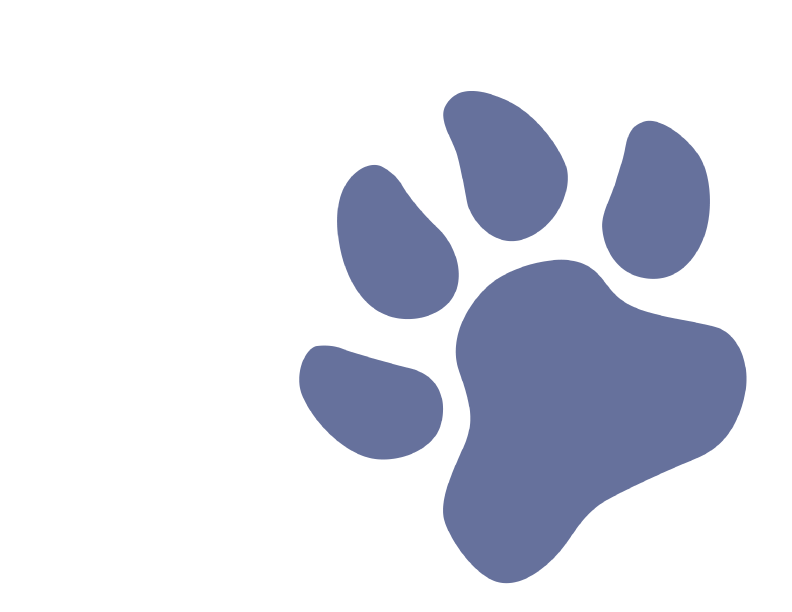
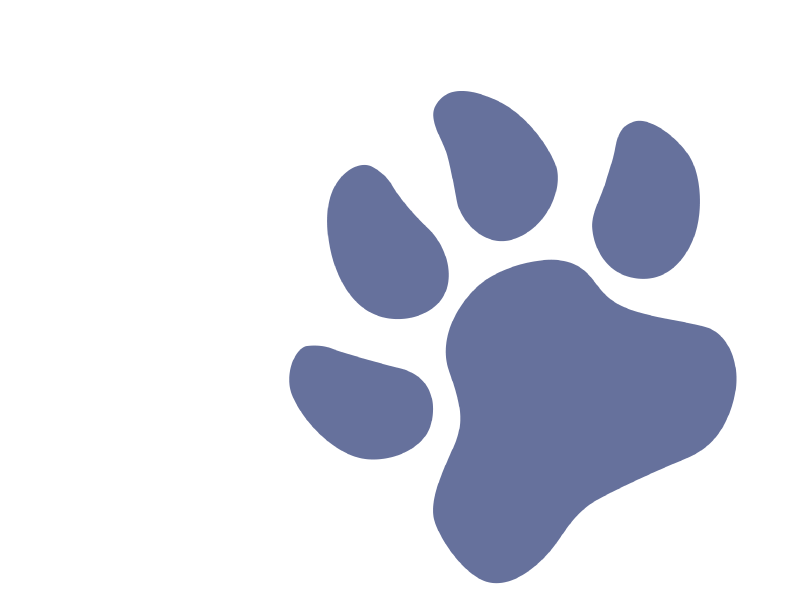
student profile background

diff --git a/public/css/style.css b/public/css/style.css
@@ -6347,6 +6347,7 @@ form .checkbox-group > .valid-feedback {
 .navbar-toggler .icon-bar {
   position: relative;
   background-color: #fff;
+  box-shadow: 1px 3px 5px 1px rgba(0, 0, 0, 0.1);
   width: 32px;
   height: 3px;
   opacity: 1;
@@ -6389,7 +6390,24 @@ form .checkbox-group > .valid-feedback {
 }
 
 body.user-c.login-a {
-  background-image: linear-gradient(#fff, #d0d0da, #13284c);
+  background-image: url(../images/fslibrary.jpg);
+  background-size: 37%;
+  background-position: bottom right;
+  background-repeat: no-repeat;
+}
+
+.red-paw-background {
+  background-image: url(../images/red-paw-print-background.png);
+  background-size: 37%;
+  background-position: bottom right;
+  background-repeat: no-repeat;
+}
+
+.blue-paw-background {
+  background-image: url(../images/blue-paw-print-background.png);
+  background-size: 37%;
+  background-position: bottom right;
+  background-repeat: no-repeat;
 }
 
 i.fa-star.fas {
@@ -6487,7 +6505,6 @@ body.student-c.profile-a {
   margin-top: 20px;
   color: #1a202c;
   text-align: left;
-  background-color: #e2e8f0;
 }
 
 .main-body {
@@ -6495,7 +6512,7 @@ body.student-c.profile-a {
 }
 
 .card {
-  box-shadow: 0 1px 3px 0 rgba(0, 0, 0, 0.1), 0 1px 2px 0 rgba(0, 0, 0, 0.06);
+  box-shadow: 1px 3px 5px 1px rgba(0, 0, 0, 0.1), 0 3px 4px 0 rgba(0, 0, 0, 0.06);
 }
 
 .card {

diff --git a/public/css/partials/_page.scss b/public/css/partials/_page.scss
@@ -1,5 +1,22 @@
 body.user-c.login-a {
-	background-image: linear-gradient(#fff,#d0d0da,#13284c);
+	background-image: url(../images/fslibrary.jpg);
+	background-size: 37%;
+	background-position: bottom right;
+	background-repeat: no-repeat;  	
+}
+
+.red-paw-background {
+	background-image: url(../images/red-paw-print-background.png);
+	background-size: 37%;
+	background-position: bottom right;
+	background-repeat: no-repeat;  
+}
+
+.blue-paw-background {
+	background-image: url(../images/blue-paw-print-background.png);
+	background-size: 37%;
+	background-position: bottom right;
+	background-repeat: no-repeat;  	
 }
 
 i.fa-star.fas {

diff --git a/public/css/partials/_studentprofile.scss b/public/css/partials/_studentprofile.scss
@@ -5,13 +5,12 @@ body.student-c.profile-a{
 	margin-top:20px;
 	color: #1a202c;
 	text-align: left;
-	background-color: #e2e8f0;    
   }
   .main-body {
 	padding: 15px;
   }
   .card {
-	box-shadow: 0 1px 3px 0 rgba(0,0,0,.1), 0 1px 2px 0 rgba(0,0,0,.06);
+	box-shadow: 1px 3px 5px 1px rgba(0,0,0,.1), 0 3px 4px 0 rgba(0,0,0,.06);
   }
   
   .card {

diff --git a/public/css/partials/_navbar.scss b/public/css/partials/_navbar.scss
@@ -30,6 +30,7 @@
 	.icon-bar {
 		position: relative;
 		background-color: $light;
+		box-shadow: 1px 3px 5px 1px rgba(0,0,0,.1);
 		width: 32px;
 		height: 3px;
 		opacity: 1;

diff --git a/app/views/Student/Profile.php b/app/views/Student/Profile.php
@@ -15,7 +15,7 @@
   
 
     <div class="container ">
-        <div class="main-body">
+        <div class="main-body" id="red-paw-background">
         
               <div class="row gutters-sm">
               
